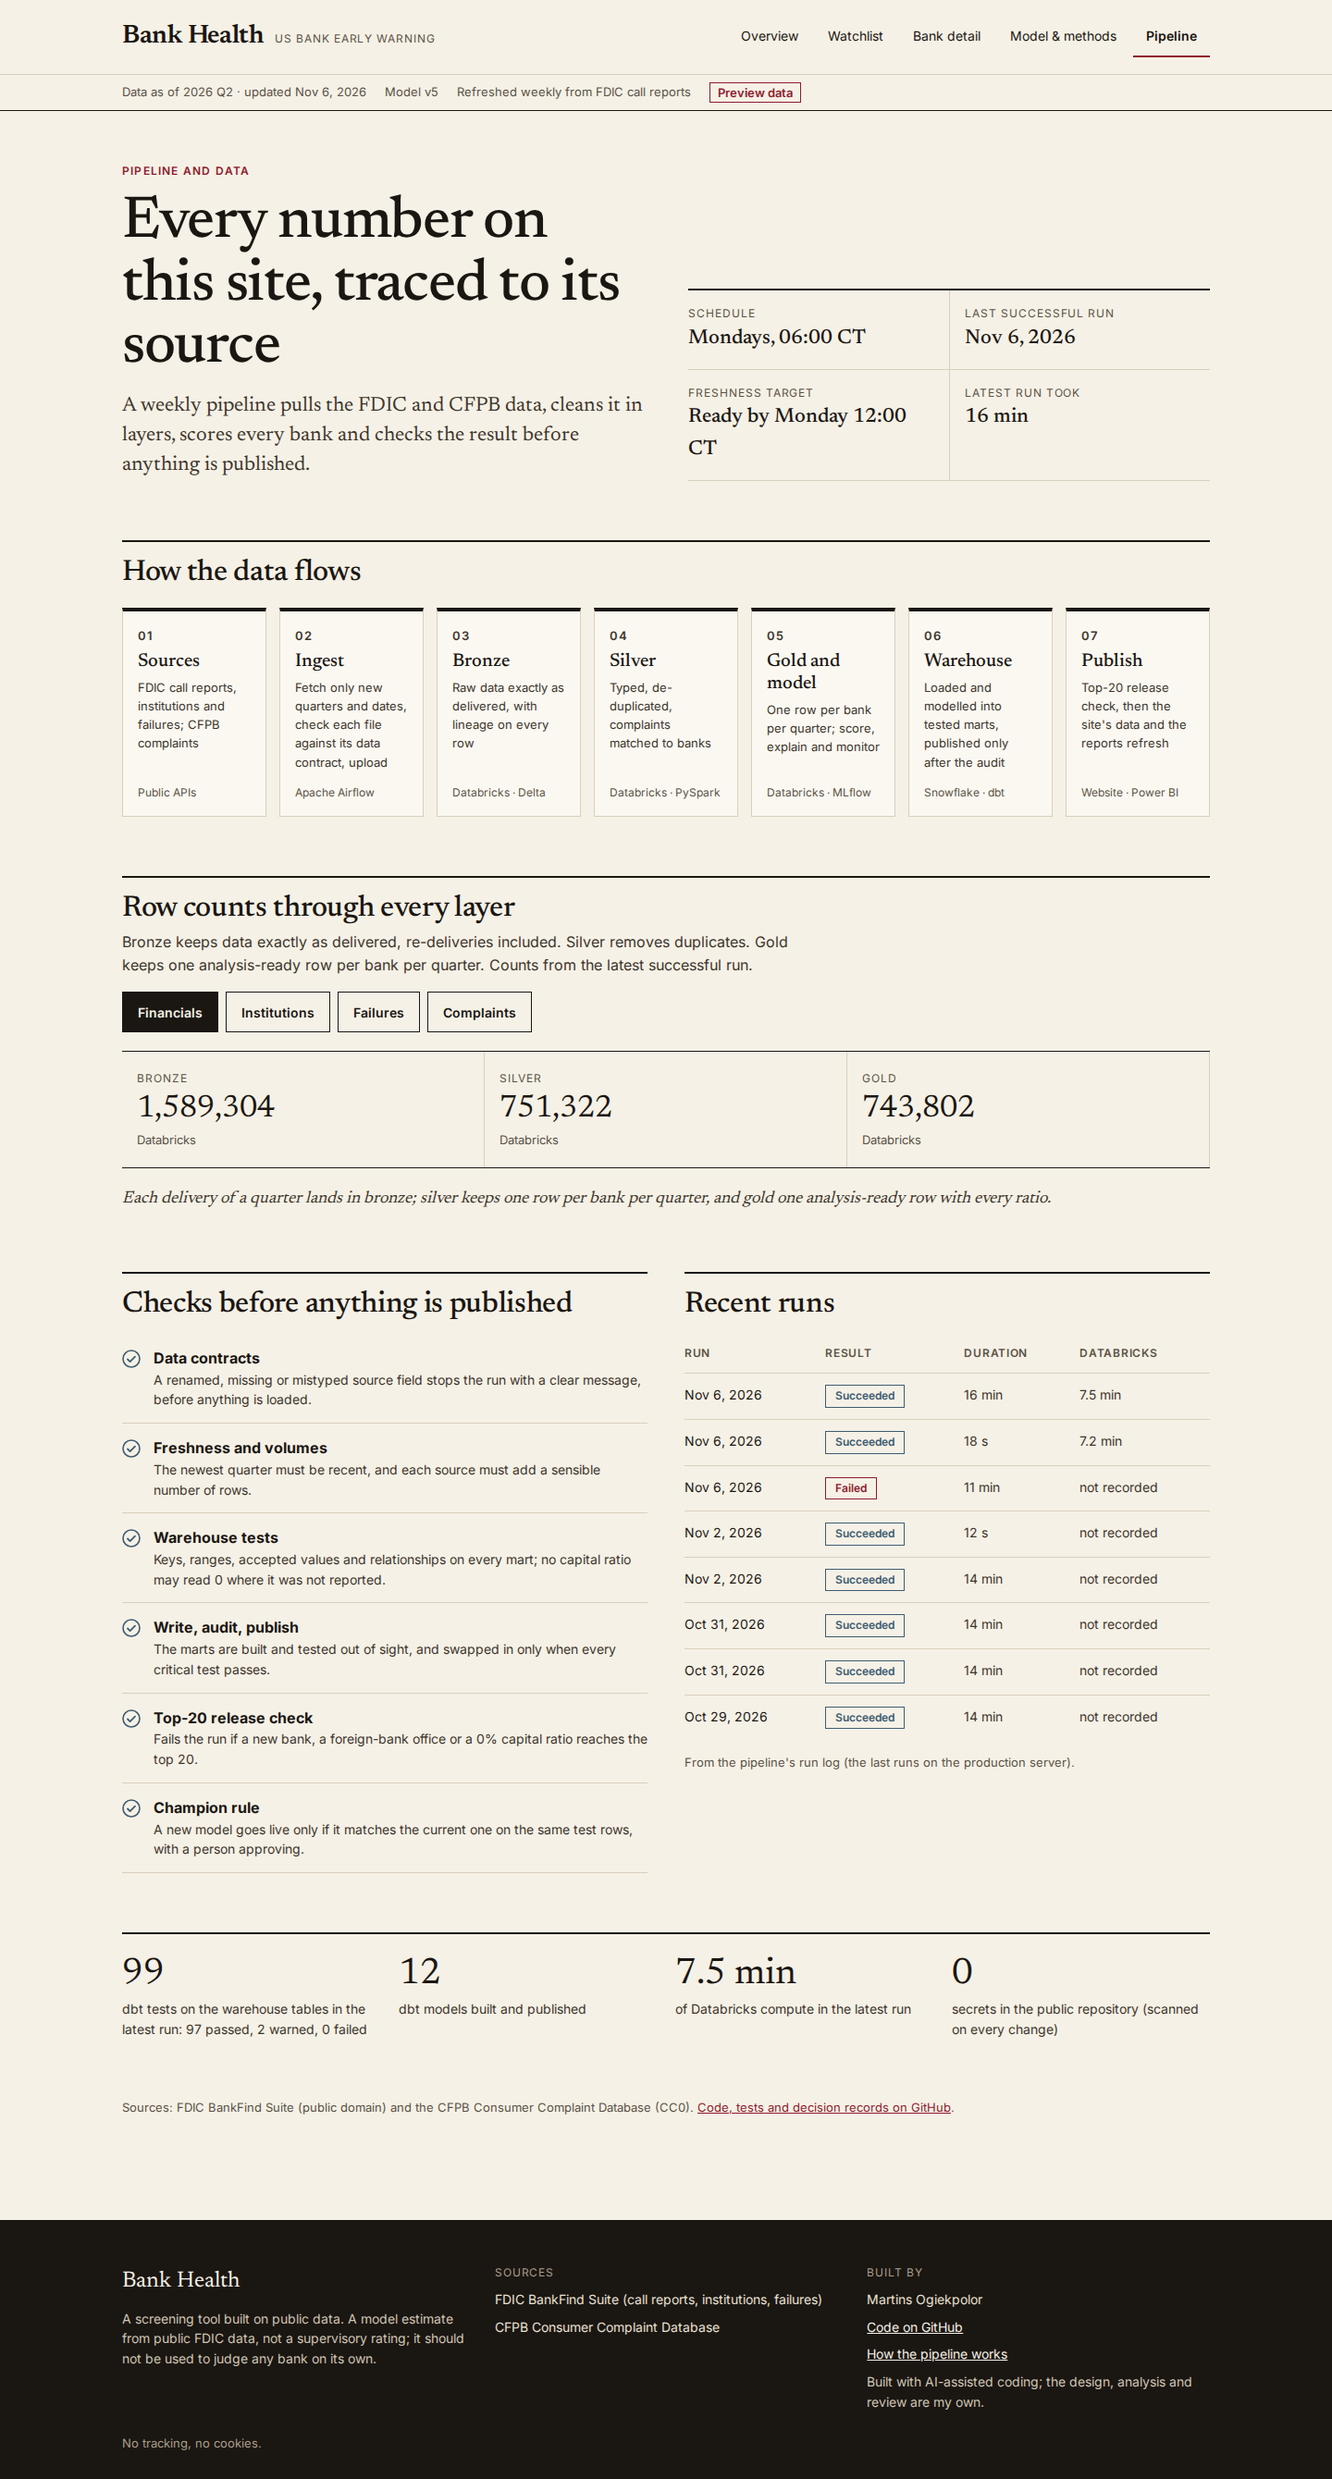
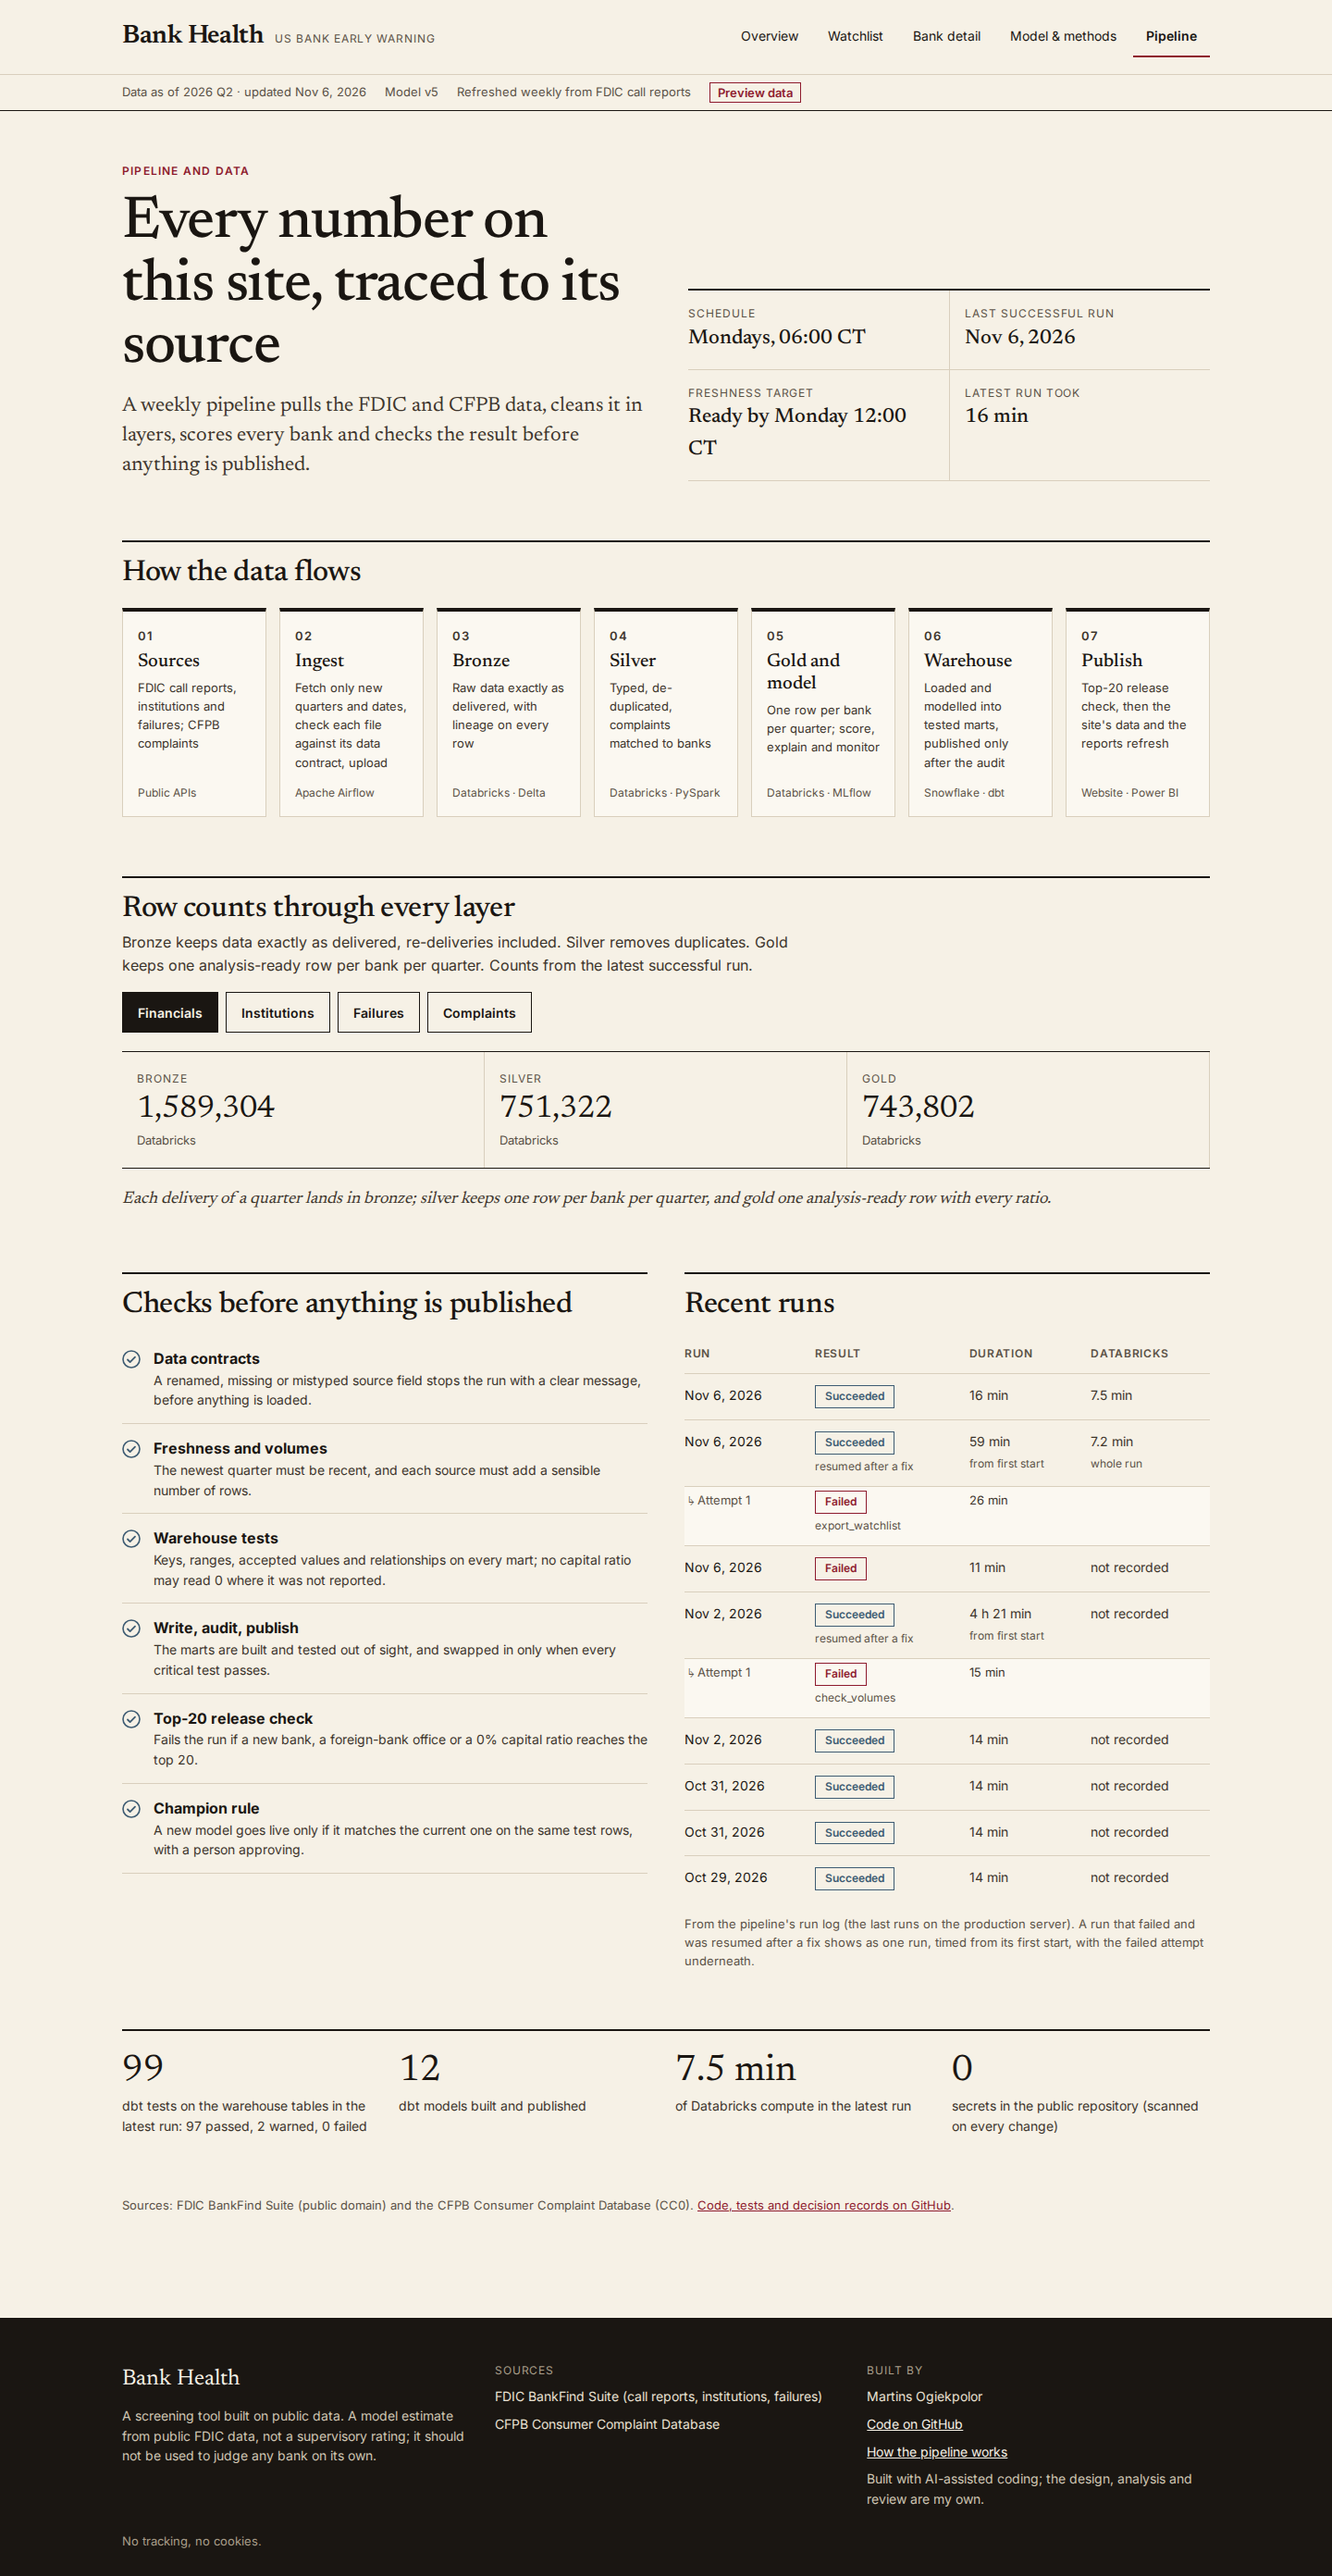
Pipeline page: resumed runs shown as one run with the failed attempt kept
The 6 Nov (09:40) and 2 Nov (scheduled) rows were runs resumed after a fix whose failed
attempt the run log had overwritten (fixed in fix/record-resumed-runs). Each now shows as
one run, 'resumed after a fix', timed from its first start, with the failed attempt and
its failed task underneath. Attempt data from Airflow's task history (preview input);
Stage B reads the health view's RESUMED / EARLIER_ATTEMPTS. Schema, SCHEMA.md and a test.

diff --git a/site/tests/site.spec.ts b/site/tests/site.spec.ts
@@ -174,7 +174,16 @@ test("pipeline: durations from the run log, and the dbt test counts", async ({ p
   await settle(page);
   const cells = await page.locator("[data-runs] td:nth-child(3)").allTextContents();
   expect(cells.length).toBeGreaterThan(0);
-  for (const c of cells) expect(c).toMatch(/^(\d+ (min|s)|not recorded)$/);
+  for (const c of cells) expect(c.trim()).toMatch(/^(\d+ (min|s)|\d+ h \d+ min|not recorded)(from first start)?$/);
+  // Resumed runs: one run "resumed after a fix", with the failed attempt still shown underneath.
+  const resumed = page.locator("tr.run-group");
+  expect(await resumed.count()).toBeGreaterThan(0);
+  for (const row of await resumed.all()) {
+    await expect(row).toContainText("resumed after a fix");
+    const attempt = row.locator("xpath=following-sibling::tr[1]");
+    await expect(attempt).toHaveClass(/run-attempt/);
+    await expect(attempt).toContainText("Failed");
+  }
   // The big number (total) and its label are separate elements; total = passed + warned + failed.
   const label = page.getByText(/^dbt tests on the warehouse tables in the latest run: \d+ passed, \d+ warned, \d+ failed$/);
   await expect(label).toBeVisible();

diff --git a/site/scripts/build_fixtures.py b/site/scripts/build_fixtures.py
@@ -18,6 +18,7 @@ import json
 import math
 import re
 import shutil
+from datetime import datetime
 from decimal import ROUND_HALF_UP, Decimal
 from pathlib import Path
 
@@ -213,7 +214,30 @@ def main() -> None:
     # model.json (figures copied from docs/model_card.md, v5)
     write("model.json", {**head, **json.loads((SITE / "content" / "model_v5.json").read_text(encoding="utf-8"))})
 
-    # pipeline.json
+    # pipeline.json. Resumed runs (failed, fixed, tasks cleared) are shown as one run with the
+    # failed attempt kept: from the health view's RESUMED / EARLIER_ATTEMPTS in Stage B; for the
+    # two runs logged before that fix, from Airflow's own task history (airflow_attempts.json).
+    att_file = IN / "airflow_attempts.json"
+    resumed = {k: v for k, v in json.loads(att_file.read_text(encoding="utf-8")).items()
+               if not k.startswith("_")} if att_file.exists() else {}  # fmt: skip
+
+    def iso(t: str) -> datetime:
+        return datetime.fromisoformat(t.replace("Z", "+00:00"))
+
+    def run_entry(h: dict, r: dict | None) -> dict:
+        entry = {"date": h["started_at"][:10], "state": h["state"],
+                 "durationSeconds": round(h["duration_minutes"] * 60) if h.get("duration_minutes") is not None else None,
+                 "databricksMinutes": h.get("databricks_minutes"), "credits": h.get("credits"),
+                 "banksScored": h.get("scored_banks"), "resumed": False, "earlierAttempts": []}  # fmt: skip
+        if r:
+            first, end = iso(r["first_started_at"]), iso(h["ended_at"])
+            entry.update(date=r["first_started_at"][:10], resumed=True,
+                         durationSeconds=round((end - first).total_seconds()),
+                         earlierAttempts=[{"state": a["state"], "failedTasks": a["failed_tasks"],
+                                           "durationSeconds": round((iso(a["ended_at"]) - iso(a["started_at"])).total_seconds())}
+                                          for a in r["attempts"]])  # fmt: skip
+        return entry
+
     datasets = {
         "fdic_financials": ("Financials", rows["bronze"]["fdic_financials"], rows["silver"]["fdic_financials"], rows["gold"]["bank_quarter"]),
         "fdic_institutions": ("Institutions", rows["bronze"]["fdic_institutions"], rows["silver"]["fdic_institutions"], None),
@@ -224,10 +248,7 @@ def main() -> None:
         "datasets": [{"key": k, "label": v[0], "bronze": v[1], "silver": v[2], "gold": v[3]} for k, v in datasets.items()],
         "marts": rows["marts"],
         "complaintMatchPct": rows["match"]["complaints_matched_to_bank_pct"],
-        "runs": [{"date": h["started_at"][:10], "state": h["state"],
-                  "durationSeconds": round(h["duration_minutes"] * 60) if h.get("duration_minutes") is not None else None,
-                  "databricksMinutes": h.get("databricks_minutes"), "credits": h.get("credits"),
-                  "banksScored": h.get("scored_banks")} for h in sf["health"]],
+        "runs": [run_entry(h, resumed.get(h["run_id"])) for h in sf["health"]],
         "latest": {"dbtModelsOk": run["dbt_models_ok"], "dbtTestsPass": run["dbt_tests_pass"],
                    "dbtTestsWarn": next(h["dbt_tests_warn"] for h in sf["health"] if h["run_id"] == run["run_id"]),
                    "dbtTestsFail": run["dbt_tests_fail"], "databricksMinutes": run["databricks_minutes"],

diff --git a/site/data/SCHEMA.md b/site/data/SCHEMA.md
@@ -104,7 +104,9 @@ card (`content/model_v5.json` holds the figures, each traceable to `docs/model_c
 
 `datasets` (`{key, label, bronze, silver, gold}` rows added per layer in the latest successful run),
 `marts`, `complaintMatchPct`, `runs` (the last 12 from `OPS.HEALTH_RUNS_LAST_12`: `date, state,
-durationSeconds, databricksMinutes, credits, banksScored`), `latest` (`dbtModelsOk, dbtTestsPass,
+durationSeconds, databricksMinutes, credits, banksScored, resumed, earlierAttempts`; a run resumed after
+a fix is one entry timed from its first start, `resumed: true`, with each earlier attempt as
+`{state, failedTasks, durationSeconds}`, from the health view's `RESUMED` / `EARLIER_ATTEMPTS`), `latest` (`dbtModelsOk, dbtTestsPass,
 dbtTestsWarn, dbtTestsFail, databricksMinutes, durationSeconds`; tests total = pass + warn + fail). A run without a
 recorded duration has `durationSeconds: null` and shows "not recorded".
 
